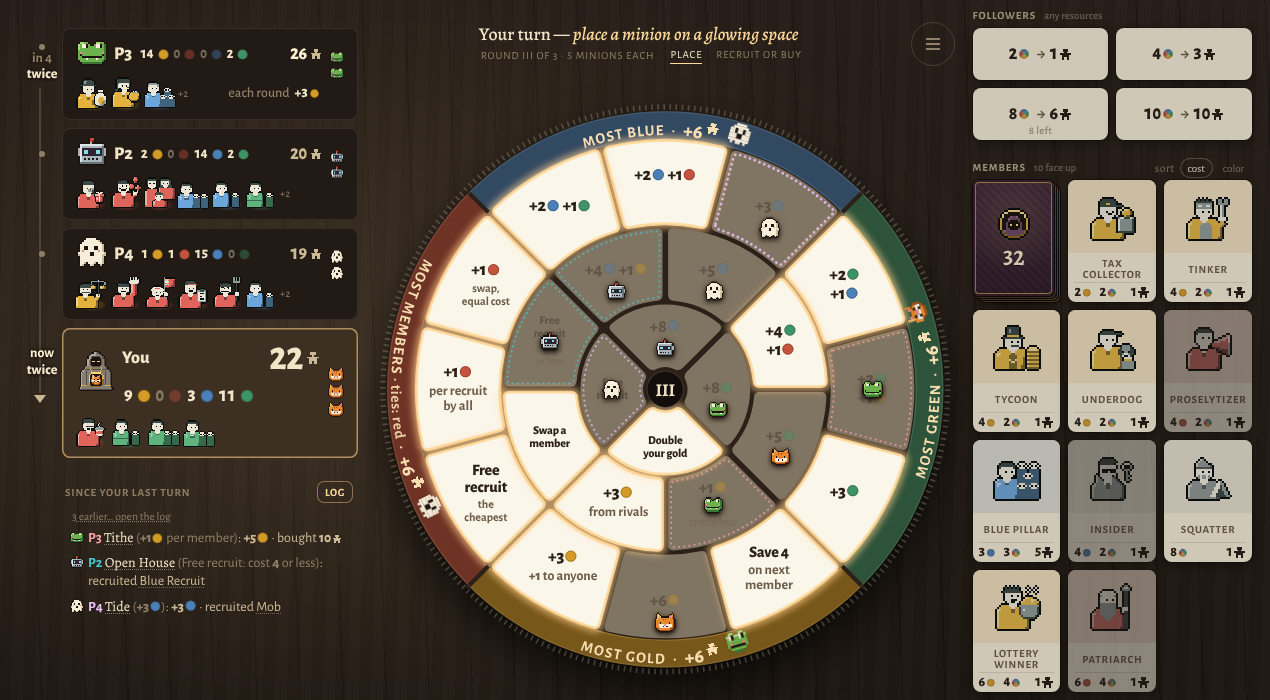
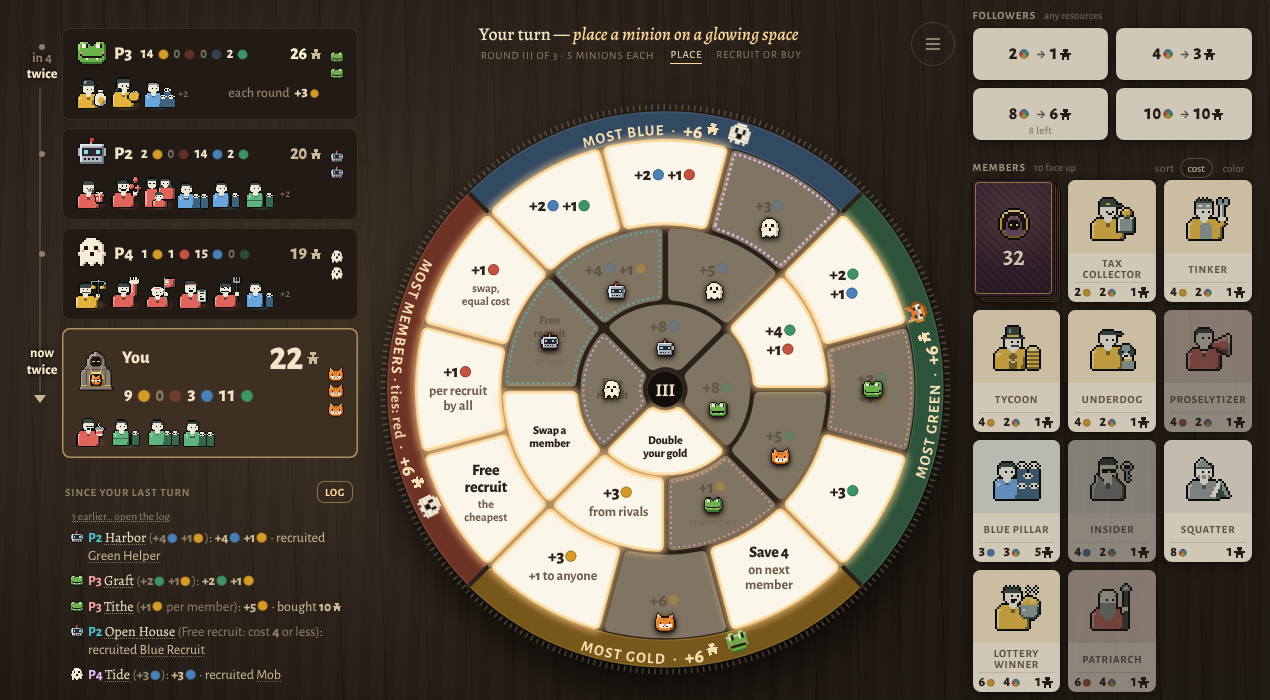
WIP checkpoint: steal pills clear the totals, since-strip folds whole lines; agents in progress
Claude-Session: https://claude.ai/code/session_017rw3aQa9iJEjdvvwQLY84z

Changed region(s): [[0.0614, 0.72, 0.2764, 0.99]]

diff --git a/src/v4/game/SinceStrip.jsx b/src/v4/game/SinceStrip.jsx
@@ -34,13 +34,14 @@ export function StoryCard({ story, color, state, hover }) {
  * props: state, entries (stories, oldest first: { actor, head, space, spaceKey, short, lines, uids, hit, n }), me (your
  * id or null), yours (it's your move now), hover (the board's hover layer), onLog (opens the full log).
  */
-export default function SinceStrip({ state, entries, me, yours, hover = null, onLog }) {
+export default function SinceStrip({ state, entries, me, yours, hover = null, onLog, cardUp = false }) {
   // whole lines only (design pod): when the strip's room can't hold every line, the oldest go into "N earlier…" instead
   // of showing half a line at the top. `drop` only grows while the list overflows; it starts over when the lines change or
   // the strip's room (its max-height, set by the layout from the chairs and the turn card, never by these lines) grows.
   // Nothing here sizes the strip, so measuring it can't feed back (the TurnCard lesson, 2026-10-15).
   const listRef = useRef(null), secRef = useRef(null), roomRef = useRef(0);
-  const sig = entries.map(e => e.n).join(',');
+  // (the turn card coming or going changes the strip's room without resizing anything watched here: start over then too)
+  const sig = entries.map(e => e.n).join(',') + (cardUp ? '|card' : '');
   // how many of the oldest lines are folded, for these lines: new lines start it over at 0 (worked out here, not by a
   // second commit)
   const [dropState, setDrop] = useState({ sig: '', n: 0 });
@@ -68,7 +69,9 @@ export default function SinceStrip({ state, entries, me, yours, hover = null, on
         // (the list stacks from its foot: lines that don't fit spill above its top, where scrollHeight can't see them;
         // design pod 08:50) — in a ResizeObserver callback the layout is settled, so these reads are free
         const first = l.firstElementChild;
-        if (first && first.getBoundingClientRect().top < l.getBoundingClientRect().top - 1) setDrop(d => { const n = d.sig === s0 ? d.n : 0; return n < len - 1 ? { sig: s0, n: n + 1 } : d; });
+        // one more line at a time, and only once the last fold is on screen (several callbacks can land before React
+        // commits a fold: each would fold another line and leave the strip half empty)
+        if (first && first.getBoundingClientRect().top < l.getBoundingClientRect().top - 1) setDrop(d => { const n = d.sig === s0 ? d.n : 0; return n < len - 1 && n === onScreen.current ? { sig: s0, n: n + 1 } : d; });
       });
     }
     const r = ro.current, l = listRef.current, w = watched.current;
@@ -77,6 +80,8 @@ export default function SinceStrip({ state, entries, me, yours, hover = null, on
     for (const el of [l, ...l.children]) if (!w.has(el)) { r.observe(el); w.add(el); }
   });
   useEffect(() => () => { if (ro.current) ro.current.disconnect(); ro.current = null; watched.current.clear(); }, []);
+  const onScreen = useRef(0); // the fold the DOM shows now
+  useLayoutEffect(() => { onScreen.current = cut; });
   const shown = base.slice(cut);
   const more = entries.length - shown.length;
   const name = id => (id === me ? 'You' : state.players[id].name);

diff --git a/src/v4/game/members.css b/src/v4/game/members.css
@@ -18,8 +18,8 @@
 .mu-text .pip.glyph,.mu-text .pip.wild{width:.8em;height:.8em;vertical-align:-.1em;margin:0 .04em}
 
 /* the quiet state: "pays at round start", "scores at game end", "not used yet"; "ready to use" is the one in full ink */
-/* the type scale: 11 small print, 14 text and buttons, 18 names (design pod) */
-.mu-tag{flex:none;font-family:var(--sans);font-size:11px;line-height:18px;font-weight:500;color:var(--pl-ink-3,#a39078);white-space:nowrap}
+/* the type scale (art director's rule): 14 text, buttons and small print, 18 names; 11 only for caps labels */
+.mu-tag{flex:none;font-family:var(--sans);font-size:14px;line-height:18px;font-weight:500;color:var(--pl-ink-3,#a39078);white-space:nowrap}
 .mu-tag.lit{color:var(--pl-ink,#2b2018);font-weight:700}
 .mu-tag.dim{color:var(--pl-ink-3,#a39078)}
 /* used: the row steps back, its words stay readable */
@@ -43,10 +43,10 @@
 .mu-actions .mu-use.big{margin-top:0}
 .mu-sw-line{display:flex;justify-content:space-between;align-items:center;font-size:14px;line-height:20px;color:var(--pl-ink,#2b2018)}
 .mu-sw-line + .mu-use{margin-top:10px}
-.mu-why{font-size:11px;line-height:17px;color:var(--pl-ink-2,#6e5c49)}
+.mu-why{font-size:14px;line-height:17px;color:var(--pl-ink-2,#6e5c49)}
 
 /* the switch: a small track and knob, its word beside it */
-.mu-switch{flex:none;display:inline-flex;align-items:center;gap:6px;font-family:var(--sans);font-size:11px;line-height:18px;font-weight:700;color:var(--pl-ink-2,#6e5c49);
+.mu-switch{flex:none;display:inline-flex;align-items:center;gap:6px;font-family:var(--sans);font-size:14px;line-height:18px;font-weight:700;color:var(--pl-ink-2,#6e5c49);
   background:none;border:0;padding:0;cursor:default}
 button.mu-switch{cursor:pointer}
 .mu-track{position:relative;width:24px;height:14px;border-radius:7px;background:rgba(43,32,24,.18);transition:background .15s}
@@ -93,7 +93,7 @@ button.mu-switch:focus-visible{outline:2px solid var(--pl-ink-2,#6e5c49);outline
 /* a seat no one can steal resources from this round (Lie Low): said in words beside its resources */
 .lt-cult-seat .cs-safe{font-family:var(--sans);font-size:11px;line-height:16px;color:var(--cream-2,#b9a98c);white-space:nowrap;align-self:center;margin-left:4px}
 .lt-cult-seat .cs-crowd > .cs-safe:first-child{margin-left:0}
-.seat-card .seat-safe{display:block;font-family:var(--sans);font-size:11px;color:var(--pl-ink-2,#6e5c49);font-weight:500;letter-spacing:0;text-transform:none}
+.seat-card .seat-safe{display:block;font-family:var(--sans);font-size:14px;color:var(--pl-ink-2,#6e5c49);font-weight:500;letter-spacing:0;text-transform:none}
 
 /* what a use just did, rising off the member for a moment ("+7 ●", or a quiet "+0") */
 .lt-cult-seat .cs-member .mu-result{position:absolute;left:50%;bottom:100%;transform:translateX(-50%);z-index:4;pointer-events:none;white-space:nowrap;

diff --git a/src/test/v4/ui/hover-intent.test.js b/src/test/v4/ui/hover-intent.test.js
@@ -1,0 +1,37 @@
+// QA, wave 2: a member's card closed as the pointer crossed its seat toward "Use", and the seat card did the same,
+// because whatever the pointer crossed opened its own card over it. hoverIntent.js keeps the card the pointer is
+// heading for (the menu-aim triangle from its last spot inside what it left), and lets go once it heads elsewhere.
+import { describe, it, expect, beforeEach } from 'vitest';
+import { aimAt, arrived, heading, aimedAt } from '../../../v4/game/hoverIntent.js';
+
+const card = (left, top, width, height) => {
+  const el = document.createElement('div');
+  document.body.appendChild(el);
+  el.getBoundingClientRect = () => ({ left, top, width, height, right: left + width, bottom: top + height, x: left, y: top });
+  return el;
+};
+const move = (x, y) => window.dispatchEvent(new MouseEvent('pointermove', { clientX: x, clientY: y }));
+
+describe('hover intent', () => {
+  beforeEach(() => { arrived(); document.body.innerHTML = ''; });
+  it('keeps the card while the pointer crosses toward it, from its last spot inside what it left', () => {
+    const c = card(360, 100, 280, 300);
+    move(100, 150); move(110, 152); // inside the seat, then the step that leaves it
+    aimAt(c);
+    expect(aimedAt()).toBe(c);
+    expect(heading({ x: 200, y: 200 })).toBe(true); // on the way, toward the card's near edge
+    expect(heading({ x: 400, y: 250 })).toBe(true); // on the card
+  });
+  it('lets go when the pointer heads elsewhere, or the card is gone', () => {
+    const c = card(360, 100, 280, 300);
+    move(100, 150); move(101, 150);
+    aimAt(c);
+    expect(heading({ x: 100, y: 40 })).toBe(false); // up to the next seat, away from the card
+    expect(aimedAt()).toBe(c); // the aim stays until it ends; only the step is off course
+    arrived(c);
+    expect(heading({ x: 400, y: 250 })).toBe(false);
+    const d = card(-9999, 0, 280, 300); // the hover layer parked off screen: nothing to head for
+    aimAt(d, { x: 100, y: 150 });
+    expect(heading({ x: 50, y: 150 })).toBe(false);
+  });
+});

diff --git a/src/v4/game/lamp-b.css b/src/v4/game/lamp-b.css
@@ -151,7 +151,7 @@
 /* hover cards keep the type scale (11/14/18): "You'd get" read 13px inside a 14px card, a glossary card 13px, its small print 11.7px */
 .lt-yd .youd-get{font-size:inherit}
 .popover .pop-card,.popover .pop-card.gloss span{font-size:14px;line-height:20px}
-.popover .pop-card small{font-size:11px;line-height:14px}
+.popover .pop-card small{font-size:14px;line-height:20px}
 .lt-why{display:block;font-size:11.5px;color:var(--paper-ink-3);margin-top:4px}
 .lt-warn{color:#9b2c25;font-weight:700}
 .lt-good{color:#3e7a2c;font-weight:700}
@@ -503,10 +503,12 @@
 /* a seat member's card opens beside the whole seat: its nub points back at the member (w2a #14) */
 .popover.beside > .pop-nub{position:absolute;left:0;width:12px;height:12px;background:var(--paper-lit,#fbf6ea);border-radius:2px;clip-path:polygon(0 0,100% 0,0 100%);transform:translate(-50%,-50%) rotate(-45deg);pointer-events:none}
 .popover.beside > .pop-nub.left{left:100%;transform:translate(-50%,-50%) rotate(135deg)}
-/* the round summary on the table's type scale (design pod): 11 small print, 14 text, 18 the title and totals. It
-   carried six sizes (12, 13, 15, 22, 24 and the totals) from the old dialog scale */
+/* the round summary on the table's type scale (design pod; the art director's rule: 11 only for caps labels): 14 text
+   and small print, 11 the caps column heads, 18 the title and totals. It carried six sizes (12, 13, 15, 22, 24 and the
+   totals) from the old dialog scale */
 .dialog.roundend{--fs-1:11px;--fs-2:14px;--fs-3:14px}
 .dialog.roundend h2{font-size:18px}
-.roundend .re-head,.roundend .re-tb,.roundend small{font-size:11px}
+.roundend .re-tb,.roundend small{font-size:14px}
+.roundend .re-head{font-size:11px}
 .roundend .re-final,.dialog.roundend .hint,.dialog.roundend .btn{font-size:14px}
 .dialog.roundend .re-f{font-size:18px}

diff --git a/src/v4/game/GameScreen.jsx b/src/v4/game/GameScreen.jsx
@@ -1145,7 +1145,7 @@ export default function GameScreen({ session, onPlayAgain, onHome, leaveText, pa
             <ShopCards state={state} me={me} mySeats={yours ? mySeats : NO_SEATS} optionFor={shopFor || live} onPick={shopPick} onDenied={shopDenied} phase={phase} hover={hover} />
           </section>
           {/* what the rivals did since your own last placement, one line each, always on the board (RC1 panel) */}
-          {state.round >= 1 && <SinceStrip state={state} entries={since} me={mySeats.length === 1 ? mySeats[0] : null} yours={yours} hover={hover} onLog={openLog} />}
+          {state.round >= 1 && <SinceStrip cardUp={!!turnCard} state={state} entries={since} me={mySeats.length === 1 ? mySeats[0] : null} yours={yours} hover={hover} onLog={openLog} />}
         </>
       )}
       <AfterChain value={cardNow} hold={holdStory}>{c => (c && !moment && !(state.over && !moment) ? <TurnCard card={c} root={root.current} state={state} /> : null)}</AfterChain>

diff --git a/design/eval/design-pod/details.md b/design/eval/design-pod/details.md
@@ -146,3 +146,12 @@ Each line: where, the problem in plain words, the fix, and before/after shots (d
 ## 08:40–09:10 UTC: the foreman's two calls, built
 99. **One speed setting (decisions.md).** Setup's "Bot speed: Slow / Normal / Fast" and the ☰ menu's "Animations: Quick / Steady / Relaxed" were two controls with two vocabularies. Now there's one: "Speed: Quick / Steady / Relaxed" (Steady by default) on the setup page and in the menu. It sets both the bots' pace and the animations, and a change in the menu takes effect at the next bot move. An old save's "normal" reads as Steady, and ?botDelay / ?speed still work for the tests. speed.test checks the setup labels, that a pick is the menu's setting, and the pace for each speed. `motion.js` (BOT keyed by speed, speedName), `App.jsx`, `local.js` (bot delay read live), `Screens.jsx`, `GameScreen.jsx` (menu label).
 100. **Discounts show on the shop's faces (decisions.md).** While a discount is yours (Intro Offer's "next member costs 4 less", Sponsor's 2 off…), each card shows what you'd pay in its dots, "free" at 0, with the list price small and struck beside it as one number: the list price in dots, two parts beside the paid price, ran into the worth. The hover says "You pay 2●: your next member costs 4 less." Read off the engine's own price rule. discount.test covers no discount, 4 off (free at 4 or less), and the hover. The rulebook says it too. `Info.jsx` paidParts, `ShopCards.jsx`, `lamp-b.css`. After: shots/shop-discount-after.png.
+101. **Setup, results, the pay sheet and the rest of the screens around the game, on the scale (the foreman's call c).** The old dialog scale's six steps (11, 13, 15, 18, 22, 28, plus 46 for display) now map onto the table's four sizes: 13 and 15 become 14, 22 becomes 18, 28 and 46 become 36. So home, setup, How to play, the lobby, the results and the round summary read like the game. Fixed sizes that bypassed the scale were fixed one by one:
+    - the results' seat names and totals (16, 22, 25 → 18) and their stacks (12 → 11)
+    - the log's "· 66 lines" (11.7 → 11)
+    - the menu's items and Speed row (15, 13 → 14)
+    - the log drawer's title, rounds and lines (22, 15, 13 → 18, 14, 14)
+    - the paper buttons (15 → 14)
+    - the pay sheet's Cancel, Pay and its dots (16 → 14)
+    Census after: home, setup (Classic and Custom), the lobby, the table, the menu, the log, the pay sheet and the results are all on 11/14/18/36, with no text cut. `v4.css`, `lamp.css`, `lamp-b.css`, `pay.css`.
+102. **Guard:** new `e2e/v4/lib/typescale.mjs` (TYPE_SCALE: any visible word off 11/14/18/36, the wheel's fitted panel faces left out). hotseat.mjs runs it at setup, at every step and on the results; info.mjs (r) runs it with every hover card open.

diff --git a/design/eval/design-pod/log.md b/design/eval/design-pod/log.md
@@ -91,3 +91,6 @@ The full reasoning and every variant's shots are in layout.md. The result is thr
 ## 08:35–08:45 · Steal picks (w2b #5)
 - **pick** · With two-digit piles, a rival's lit pills covered its follower total ("33" read as "3"), exactly when you choose whom to hit by score. → **Fixed:** while a chair's stacks are picks they stand 3px apart, and each pill's padding and number-to-dot gap tighten by a few pixels. The row now ends before the total with 17/14/13/16 piles (measured: stacks to 288, total from 290). Scratch: bigpick.mjs.
 - **pick** · Each pickable rival drew a lit outline inside its own panel's border, a frame inside a frame, and that outline glowed as brightly as the pills. → **Fixed:** the chair is lit quietly at its own edge (1px, .3); the pills are the one glow (shots/0900/pick.png).
+
+## 08:50 · Since-strip, whole lines (again)
+- **round III** · The strip still showed half a line at the top. The perf pod had moved my measure into a ResizeObserver; its overflow test (scrollHeight) can't see lines spilling above the top of a list stacked from its foot, and it could fold several lines before React showed the first fold. When the turn card left, the strip's room grew without resizing anything watched, so it never unfolded. → **Fixed (small edits in the perf pod's code):** overflow is read from the first line's edge, one more line folds only once the last fold is on screen, and the fold starts over when the turn card comes or goes (a `cardUp` prop on GameScreen's SinceStrip line, outside TurnCard). Round III, placing: "1 earlier…" plus five whole lines. Buying with the card up: "4 earlier…" plus two lines above the card (shots/0850/).
